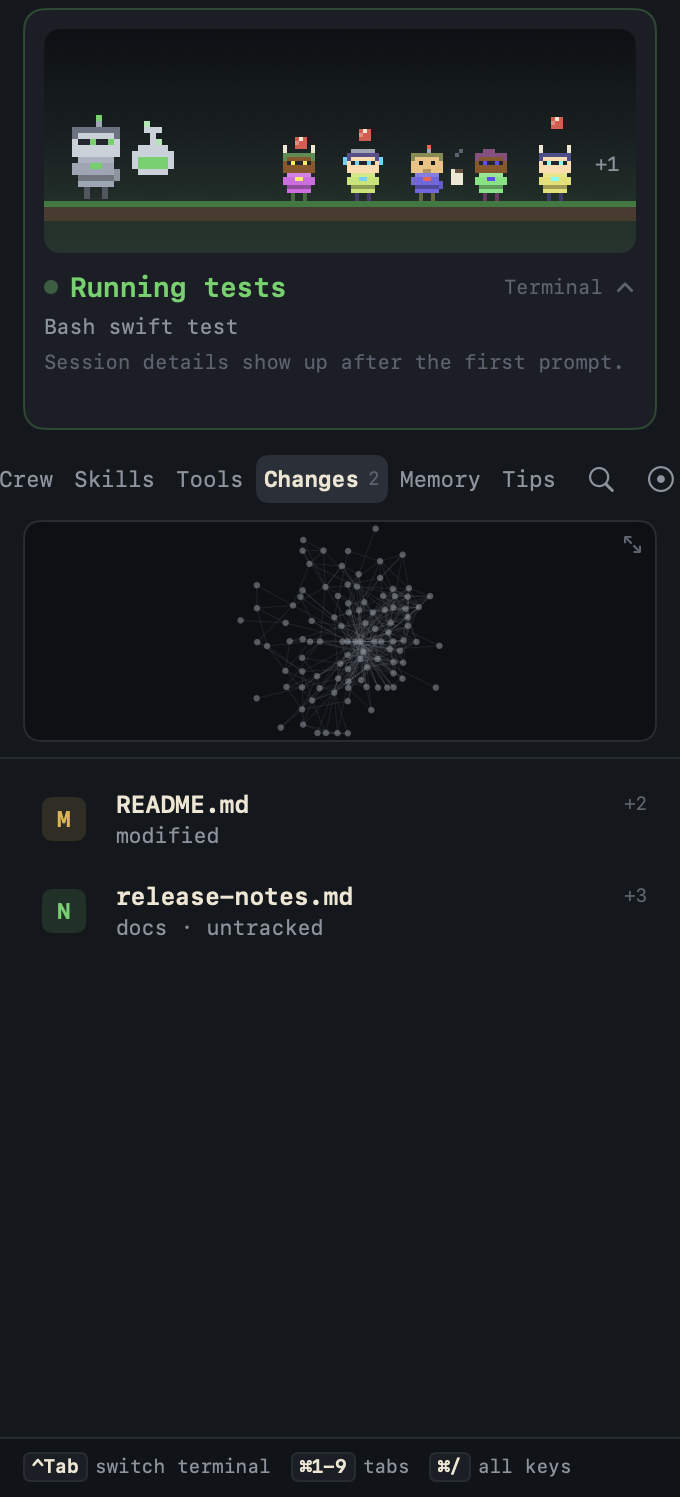
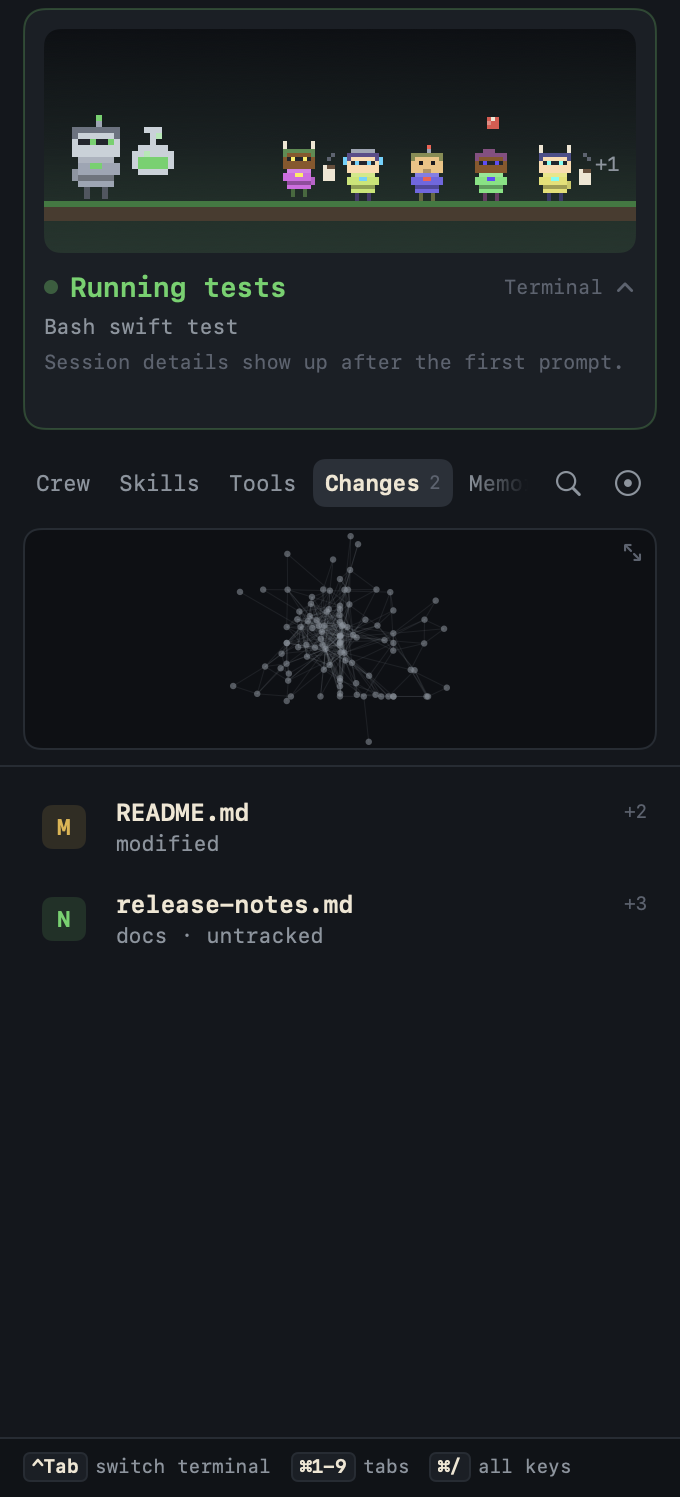
docs: Show the 3D project map in the README

diff --git a/README.md b/README.md
@@ -44,15 +44,20 @@ happened. AgentWorld makes that a built-in feature instead of a habit:
   built-in workflows (second opinion, build and review, divide and conquer) let
   one agent drive the others.
 - **Token usage** by CLI, day and session (Claude Code, Codex, Gemini CLI).
-- **Project map**: your files as a graph of who uses whom, with live rings on
-  what the agents are editing, and `agentworld-ctl map` so agents can ask for
-  the structure themselves.
+- **Project map in 3D**: your files as a graph you can turn with the mouse.
+  Files that use each other cluster into coloured islands, the most connected
+  ones glow, files with no links sit on an outer shell, rings mark what has
+  uncommitted changes and a pulse what an agent is touching. Click a file for
+  what it uses and what uses it, ⇧-click a second one for the way between
+  them. `agentworld-ctl map` lets agents ask for the structure themselves.
 - **Agents drive the app.** With `agentworld-ctl` (and the bundled `agentworld`
   skill) an agent can open helper panes beside it, hand off work and read the
   answers.
 - **⌘K palette**, a commit sheet (⌘⇧C), and keyboard-first navigation.
 
 ![The right panel: crew, changes and the project map](docs/screenshots/panel-changes.png)
+
+![The project map, in 3D](docs/screenshots/map.png)
 
 ## How it works, and what it touches
 
